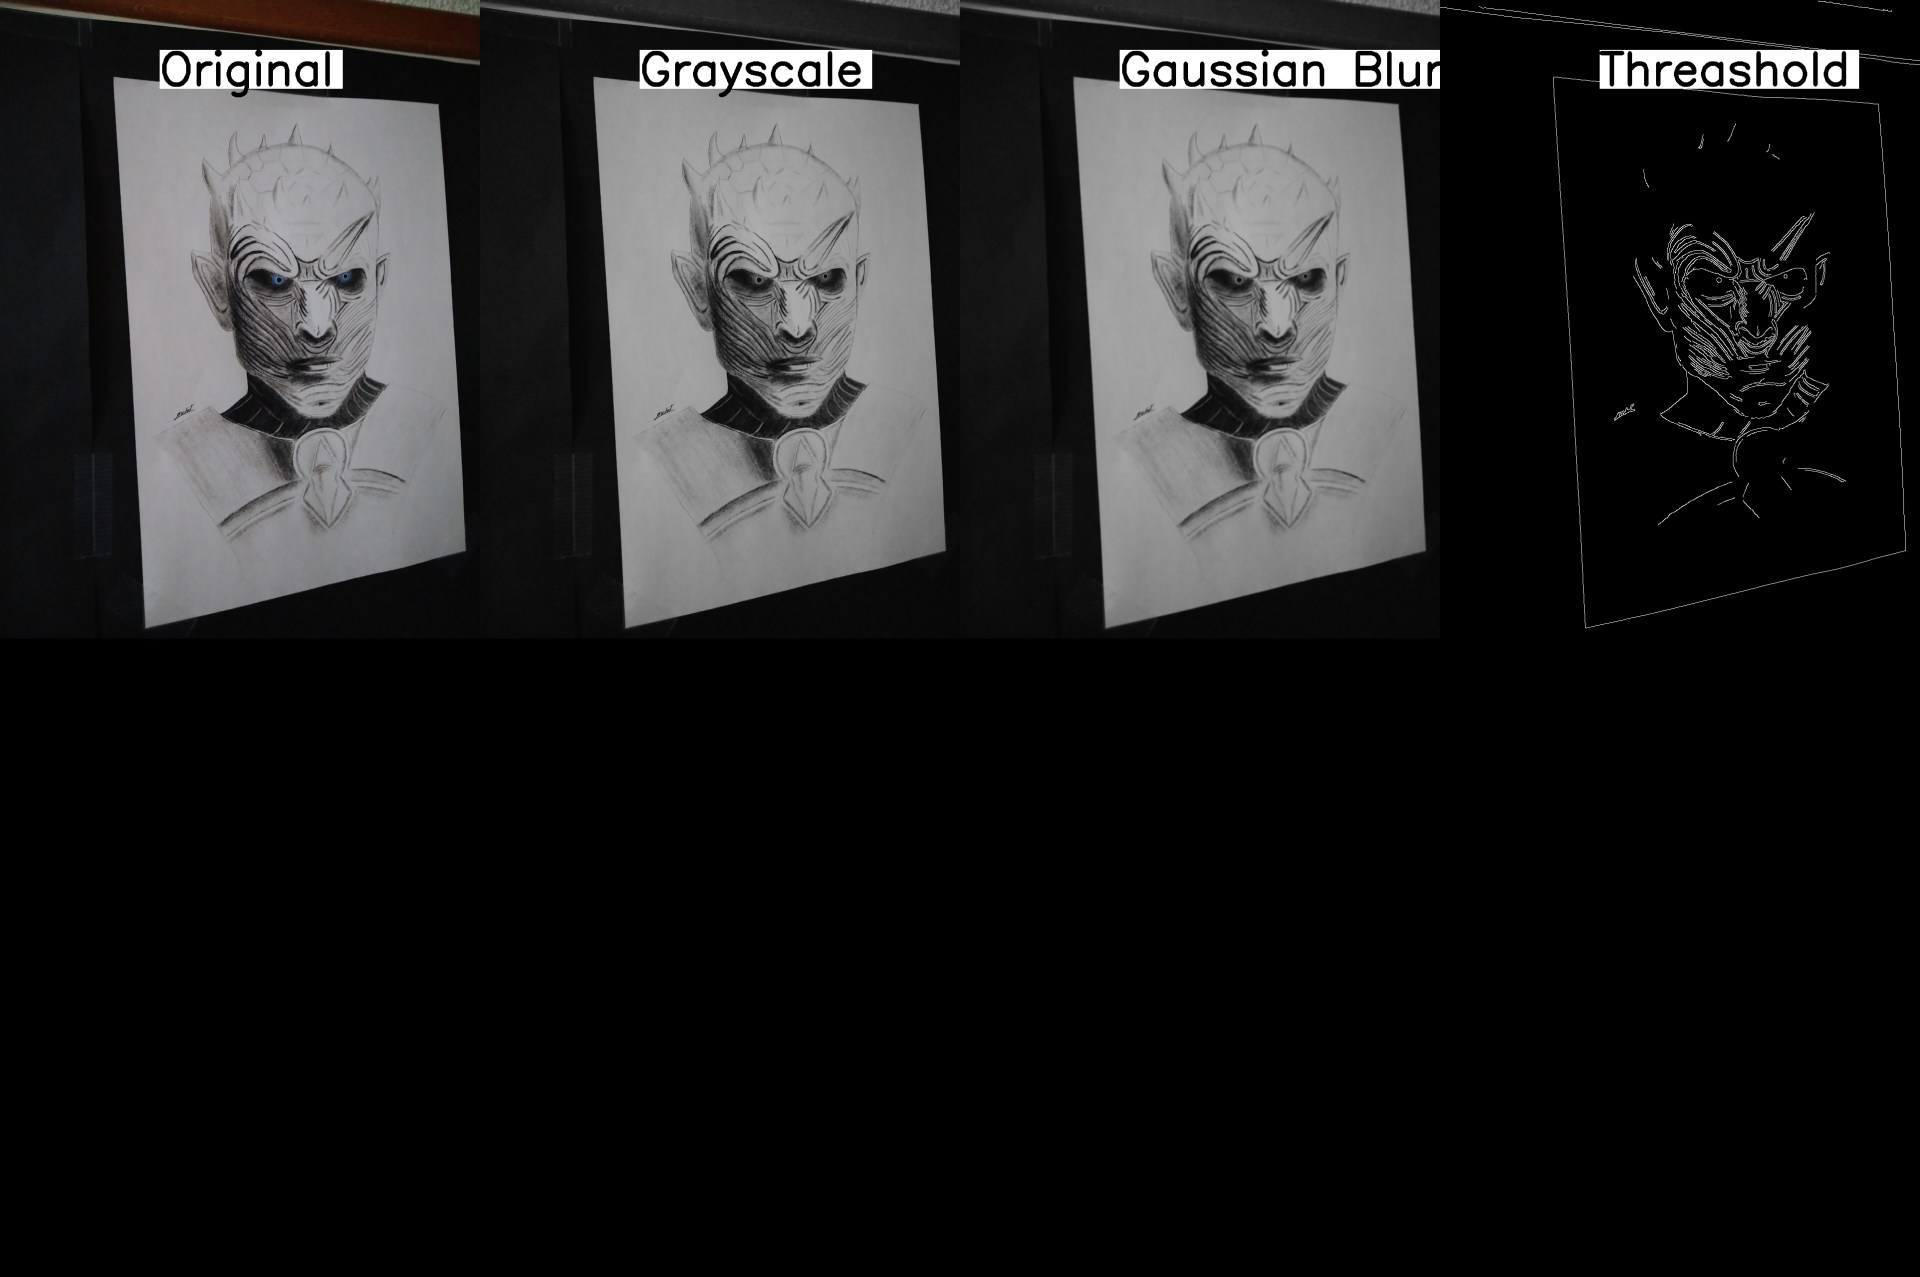
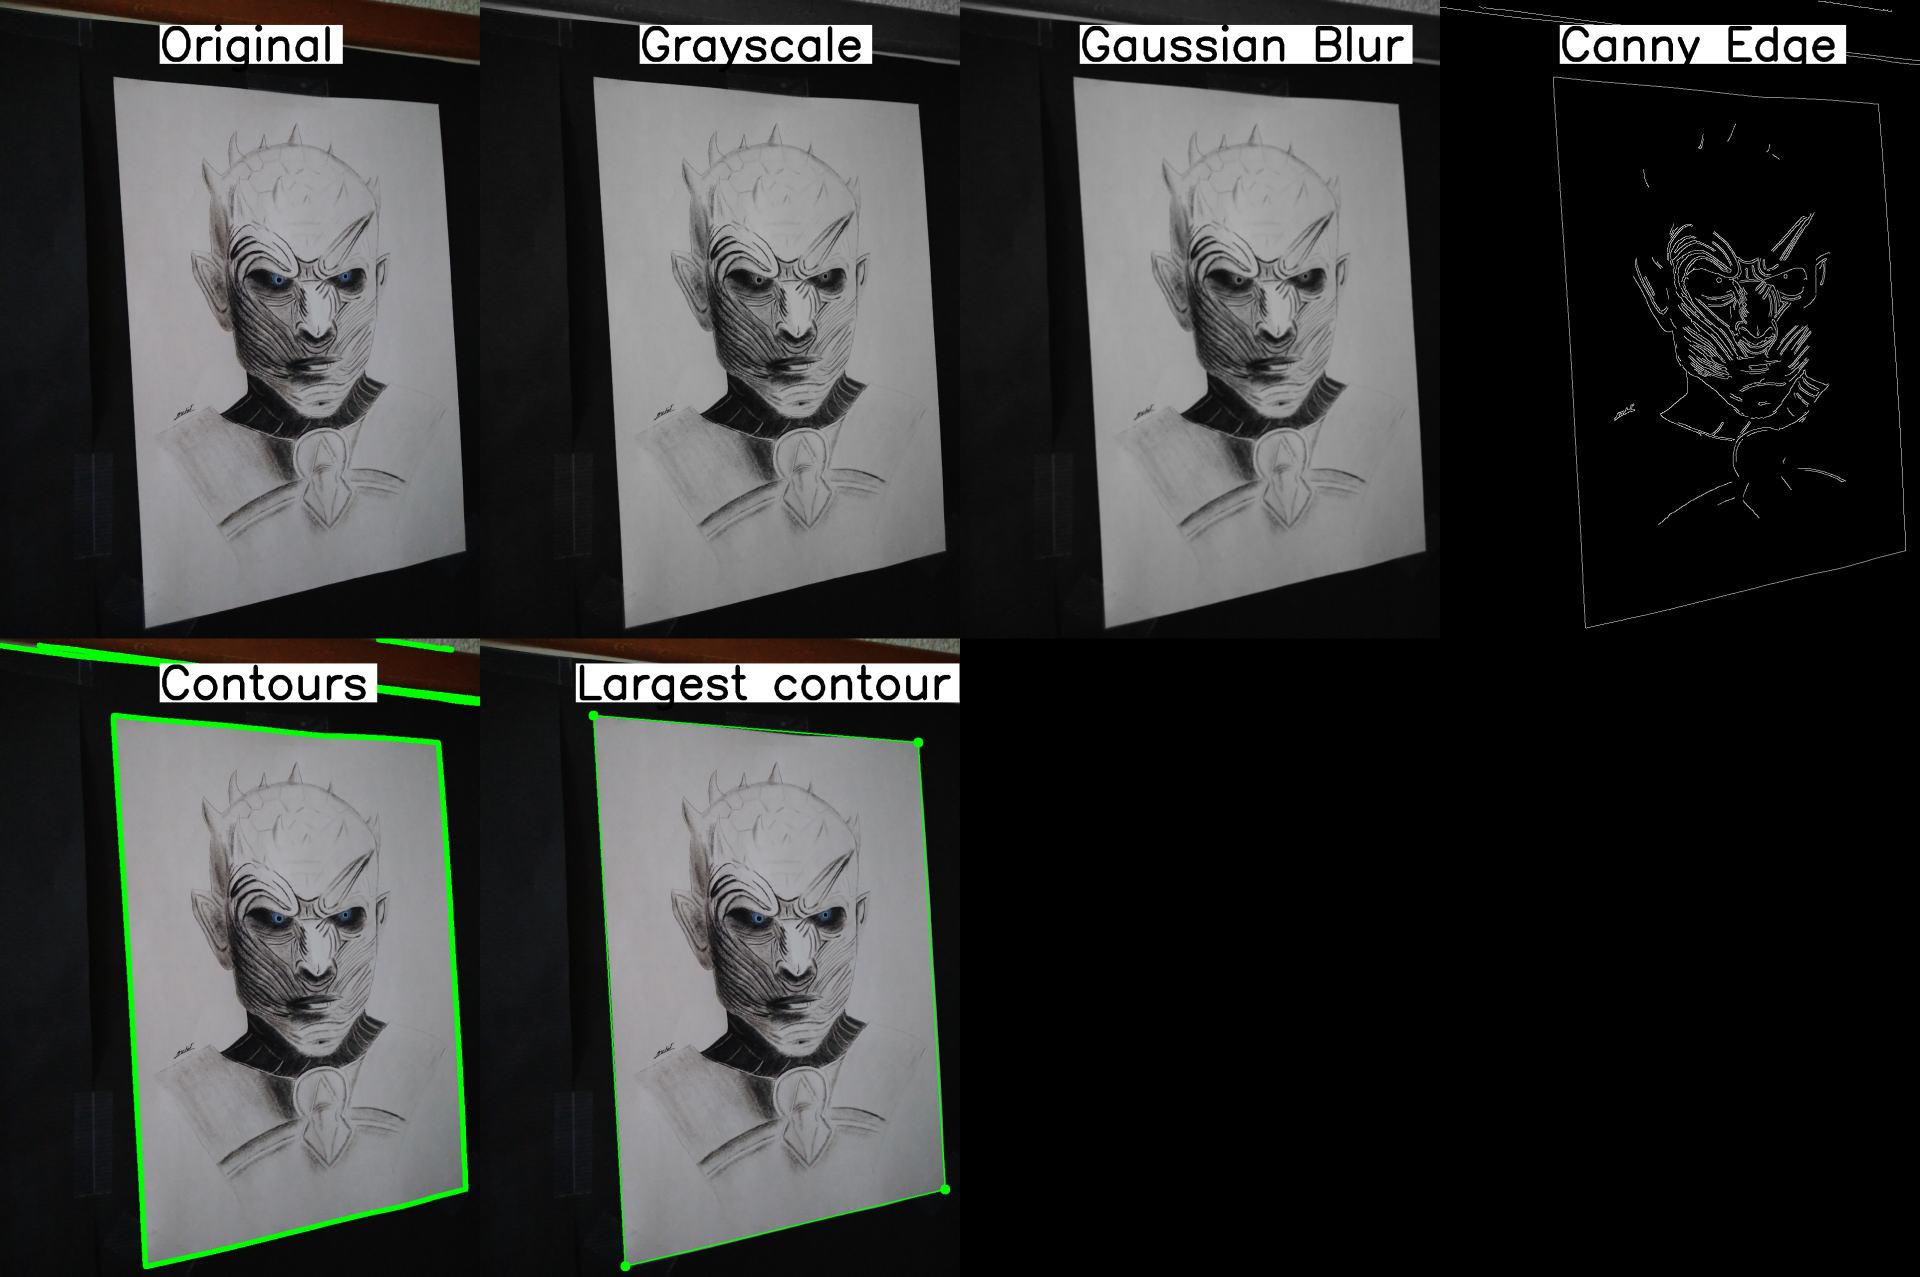
Add contour detection

diff --git a/utils.py b/utils.py
@@ -1,11 +1,11 @@
 import cv2
 import PIL.Image as Image
-import os
+import numpy as np
 
 IMAGES_PATH = "./img/"
 
-IMAGE_ROW = 2
-IMAGE_COLUMN = 4
+ROWS = 2
+COLUMNS = 4
 IMAGE_SAVE_PATH = './img/final.png'
 
 height = 1280
@@ -26,12 +26,12 @@ def image_grid(image_names, IMAGE_SIZE_C, IMAGE_SIZE_R):
     """
 
     # Create a new canvas on which all the images would be placed
-    to_image = Image.new('RGBA', (IMAGE_COLUMN * IMAGE_SIZE_C, IMAGE_ROW * IMAGE_SIZE_R))
+    to_image = Image.new('RGBA', (COLUMNS * IMAGE_SIZE_C, ROWS * IMAGE_SIZE_R))
 
     # Loop through all pictures, paste each picture
-    for y in range(0, IMAGE_ROW):
-        for x in range(0, IMAGE_COLUMN):
-            from_image = image_names[y * IMAGE_COLUMN + x]
+    for y in range(0, ROWS):
+        for x in range(0, COLUMNS):
+            from_image = image_names[y * COLUMNS + x]
             to_image.paste(Image.fromarray(from_image), (x * IMAGE_SIZE_C, y * IMAGE_SIZE_R))
 
     to_image.save("./img/final.png")
@@ -40,12 +40,28 @@ def image_grid(image_names, IMAGE_SIZE_C, IMAGE_SIZE_R):
 
 def draw_text(img, text,
               font=cv2.FONT_HERSHEY_SIMPLEX,
-              pos=(int(width / 3), 100),
+              pos=(int(width / 3), 50),
               font_scale=3,
               font_thickness=8,
               text_color=(0, 0, 0),
               text_color_bg=(255, 255, 255)
               ):
+
+    """
+    Function to put overlay text on an image, with various tweaks possible.
+    Taken from https://stackoverflow.com/a/65146731/6475377 and made few modifications.
+
+    :param img: The base image to put text on
+    :param text: The text string
+    :param font: Font to use for text
+    :param pos: Starting position of the text (x, y)
+    :param font_scale: Size of text
+    :param font_thickness: Thickness of text
+    :param text_color: Colour of text
+    :param text_color_bg: Background colour of rectangle
+
+    :return: The modified image
+    """
     padding = 10
     x, y = pos
     text_size, _ = cv2.getTextSize(text, font, font_scale, font_thickness)
@@ -54,3 +70,77 @@ def draw_text(img, text,
     cv2.putText(img, text, (x, y + text_h + font_scale - 1), font, font_scale, text_color, font_thickness)
 
     return img
+
+
+def biggest_contour(contours):
+    biggest = np.array([])
+    max_area = 0
+    for i in contours:
+        # Get the area and perimeter of contour
+        area = cv2.contourArea(i)
+        peri = cv2.arcLength(i, True)
+
+        # Approximate the (closed) curve and get its points
+        approx = cv2.approxPolyDP(i, 0.02 * peri, True)
+
+        # If current contour is bigger than previous one, AND it is a rectangle
+        if area > max_area and len(approx) == 4:
+            biggest = approx
+            max_area = area
+
+    # Squeeze to 2D matrix: (4, 1, 2) -> (4, 2)
+    # biggest = np.squeeze(biggest, axis=1)
+
+    return biggest, max_area
+
+
+def draw_rectangle(img, biggest, thickness):
+    """
+    Draw a rectangle using 4 individual lines.
+
+    :param img: The base image on which to draw
+    :param biggest: The 4 points for the rectangle
+    :param thickness: Thickness of the 4 lines
+
+    :return: The modified image
+    """
+    # Squeeze to 2D matrix: (4, 1, 2) -> (4, 2)
+    biggest = np.squeeze(biggest, axis=1)
+
+    cv2.line(img, (biggest[0][0], biggest[0][1]), (biggest[1][0], biggest[1][1]), (0, 255, 0), thickness)
+    cv2.line(img, (biggest[0][0], biggest[0][1]), (biggest[2][0], biggest[2][1]), (0, 255, 0), thickness)
+    cv2.line(img, (biggest[3][0], biggest[3][1]), (biggest[2][0], biggest[2][1]), (0, 255, 0), thickness)
+    cv2.line(img, (biggest[3][0], biggest[3][1]), (biggest[1][0], biggest[1][1]), (0, 255, 0), thickness)
+
+    return img
+
+
+def reorder(points):
+    """
+    Reorder the points based on following notation:
+    (x_min, y_min), (x_max, y_min), (x_min, y_max), (x_max, y_max)
+
+    :param points: The 4 points to reorder
+    :return: The reordered 4 points -> dimension: (4, 1, 2)
+    """
+    # Squeeze to 2D matrix: (4, 1, 2) -> (4, 2)
+    points = np.squeeze(points, axis=1)
+
+    points_new = np.zeros((4, 1, 2), dtype=np.int32)
+
+    # Add the x and y values of all 4 points
+    add = points.sum(1)
+
+    # First point, with smallest x and y coordinates
+    points_new[0] = points[np.argmin(add)]
+
+    # Last point, with largest x and y coordinates
+    points_new[3] = points[np.argmax(add)]
+
+    # Subtract the x and y values of all 4 points
+    diff = np.diff(points, axis=1)
+
+    points_new[1] = points[np.argmin(diff)]
+    points_new[2] = points[np.argmax(diff)]
+
+    return points_new

diff --git a/docscanner.py b/docscanner.py
@@ -1,7 +1,7 @@
 import cv2
 import numpy as np
 
-from utils import image_grid, width, height, draw_text
+from utils import image_grid, width, height, draw_text, biggest_contour, draw_rectangle, reorder
 
 PATH = "./img/tnk_art.jpg"
 
@@ -14,23 +14,35 @@ img = cv2.resize(img, (width, height))
 
 # Convert to grayscale
 img_gray = cv2.cvtColor(img, cv2.COLOR_RGB2GRAY)
-img = draw_text(img, "Original")
 
 # Add Gaussian blur
 img_blur = cv2.GaussianBlur(img_gray, (5, 5), 1)
-img_gray = draw_text(img_gray, "Grayscale")
 
 # Add thresholding
-img_threshold = cv2.Canny(img_blur, 100, 200)  # APPLY CANNY BLUR
-img_blur = draw_text(img_blur, "Gaussian Blur")
+img_threshold = cv2.Canny(img_blur, 100, 200)
+
+# Find all the contours
+img_contours = img.copy()
+imgBigContour = img.copy()
+contours, hierarchy = cv2.findContours(img_threshold, cv2.RETR_EXTERNAL, cv2.CHAIN_APPROX_SIMPLE)
+cv2.drawContours(image=img_contours, contours=contours, contourIdx=-1, color=(0, 255, 0), thickness=10)
+
+# Find the biggest contour
+biggest, maxArea = biggest_contour(contours)
+biggest = reorder(biggest)
+cv2.drawContours(image=imgBigContour, contours=biggest, contourIdx=-1, color=(0, 255, 0), thickness=20)
+imgBigContour = draw_rectangle(imgBigContour, biggest, 2)
 
 blank_img = np.zeros((height, width, 3), dtype=np.uint8)
-img_threshold = draw_text(img_threshold, "Threashold")
+image_list = [img, img_gray, img_blur, img_threshold, img_contours, imgBigContour, blank_img, blank_img]
 
-image_list = [img, img_gray, img_blur, img_threshold, blank_img, blank_img, blank_img, blank_img]
+# Add labels to each image
+img = draw_text(img, "Original")
+img_gray = draw_text(img_gray, "Grayscale")
+img_blur = draw_text(img_blur, "Gaussian Blur", pos=(int(width / 4), 50))
+img_threshold = draw_text(img_threshold, "Canny Edge", pos=(int(width / 4), 50))
+img_contours = draw_text(img_contours, "Contours")
+imgBigContour = draw_text(imgBigContour, "Largest contour", pos=(int(width / 5), 50))
 
+# Combine the images into a grid
 image_grid = np.asarray(image_grid(image_list, width, height))
-
-cv2.imshow('Document Scan', image_grid)
-cv2.waitKey(0)
-cv2.destroyAllWindows()
